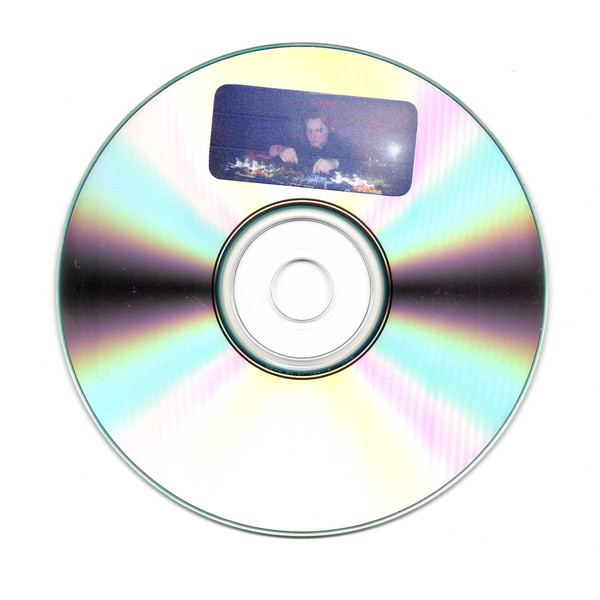
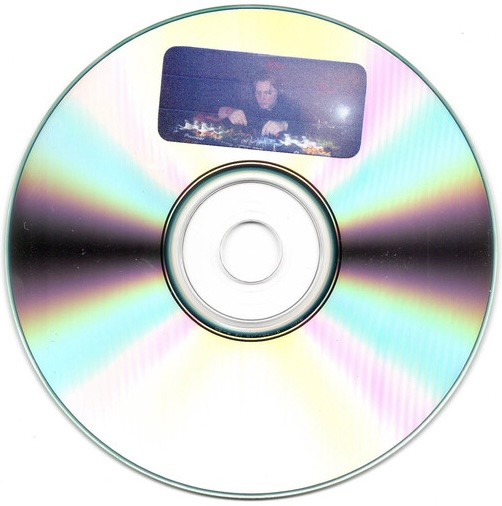
added mixes

diff --git a/index.html b/index.html
@@ -53,7 +53,7 @@
 
         <!-- SL005 -->
         <div class="card">
-          <img src="images/sl005.jpg">
+          <div class="card-img"><img src="images/sl005.jpg"></div>
           <div class="card-text">
             <span class="card-catalog">SL005</span>
             <span class="card-title">the summer ep</span>
@@ -86,7 +86,7 @@
 
         <!-- SL004 -->
         <div class="card">
-          <img src="images/sl004.jpg">
+          <div class="card-img"><img src="images/sl004.jpg"></div>
           <div class="card-text">
             <span class="card-catalog">SL004</span>
             <span class="card-title">Conveyor Belt 2<sup>nd</sup> Product</span>
@@ -117,7 +117,7 @@
 
         <!-- SL003 -->
         <div class="card">
-          <img src="images/sl003.jpg">
+          <div class="card-img"><img src="images/sl003.jpg"></div>
           <div class="card-text">
             <span class="card-catalog">SL003</span>
             <span class="card-title">Oskiano</span>
@@ -147,13 +147,12 @@
 
         <!-- SL002 -->
         <div class="card">
-          <img src="images/sl002.jpg" style="aspect-ratio:1.2">
+          <div class="card-img"><img src="images/sl002.jpg"></div>
           <div class="card-text">
             <span class="card-catalog">SL002</span>
-            <span class="card-title">a.m. blur</span>
+            <span class="card-title">A.M. Blur</span>
             <span class="card-artist">testfield</span>
-            <span class="card-date">Unreleased</span>
-            <span class="card-date">CD Available August 15, 2026</span>
+            <span class="card-date">Released August 15th, 2026</span>
           </div>
 
           <template class="card-modal">
@@ -163,19 +162,25 @@
             </div>
 
             <div class="modal-brief">
-              <p>Upcoming release from testfield.</p>
+              <p>Los Angeles' testfield returns with a new sound after an 8 year hiatus.</p>
+              <br>
+              <p>Plastic outer protective sleeve, printed vellum front art, minimal printed compact disc, soft disc inner protective sleeve, back panel insert, rounded corners on everything </p>
               <br>
               <p>First physical discs will be available as part of the raffle at the <a href="https://instagram.com/11ai.link">SL001 Leapyear Register CD release party</a> at Sun Space in Los Angeles on August 15th.</p>
             </div>
 
             <a class="modal-link" href="https://testfield.bandcamp.com/">testfield Bandcamp &rarr;</a>
+            <div class="modal-bandcamp"
+              data-embed="1712714101"
+              data-embed-type="album"
+              data-linkcol="ff0000"></div>
           </template>
         </div>
         
 
         <!-- SL001 -->
         <div class="card">
-          <img src="images/sl001.jpg" alt="color coordinates cover art">
+          <div class="card-img"><img src="images/sl001.jpg" alt="color coordinates cover art"></div>
           <div class="card-text">
             <span class="card-catalog">SL001</span>
             <span class="card-title">Leapyear Register</span>
@@ -210,7 +215,7 @@
 
         <!-- SL000 -->
         <div class="card">
-          <img src="sl000.jpg">
+          <div class="card-img"><img src="sl000.jpg"></div>
           <div class="card-text">
             <span class="card-catalog">SL000</span>
             <span class="card-title">SECRET DISC</span>
@@ -239,18 +244,42 @@
       </div>
 
       <!-- MIXES -->
-      <!-- <div class="section-divider"></div> -->
+      <div class="section-divider"></div>
+      <h2 class="section-heading">MIXES</h2>
 
-      <div class="releases" style="display:none;">
+      <div class="releases">
+
+        <!-- SLMIX002 -->
+        <div class="card">
+          <div class="card-img"><img src="images/slmix002.jpg"></div>
+          <div class="card-text">
+            <span class="card-catalog">SLMIX002</span>
+            <span class="card-title">Install Wizard (ID Showcase)</span>
+            <span class="card-artist">Cone</span>
+            <!-- <span class="card-date">Coming soon</span> -->
+          </div>
+
+          <template class="card-modal">
+            <div class="modal-imgs">
+              <img src="images/slmix002.jpg">
+            </div>
+
+            <div class="modal-brief">
+              <p>Promotional CD created for the Install Wizard (ID Showcase)</p>
+              <br>
+              <iframe width="100%" height="166" scrolling="no" frameborder="no" allow="autoplay; encrypted-media" src="https://w.soundcloud.com/player/?url=https%3A//api.soundcloud.com/tracks/soundcloud%253Atracks%253A2310587291&color=%23333640&auto_play=false&hide_related=false&show_comments=true&show_user=true&show_reposts=false&show_teaser=true"></iframe><div style="font-size: 10px; color: #cccccc;line-break: anywhere;word-break: normal;overflow: hidden;white-space: nowrap;text-overflow: ellipsis; font-family: Interstate,Lucida Grande,Lucida Sans Unicode,Lucida Sans,Garuda,Verdana,Tahoma,sans-serif;font-weight: 100;"><a href="https://soundcloud.com/cone-dj" title="CONE" target="_blank" style="color: #cccccc; text-decoration: none;">CONE</a> · <a href="https://soundcloud.com/cone-dj/installwizard" title="Install Wizard     (ID Showcase)" target="_blank" style="color: #cccccc; text-decoration: none;">Install Wizard     (ID Showcase)</a></div>
+            </div>
+          </template>
+        </div>
 
         <!-- SLMIX001 -->
         <div class="card">
-          <img src="images/slmix001.jpg">
+          <div class="card-img"><img src="images/slmix001.jpg"></div>
           <div class="card-text">
             <span class="card-catalog">SLMIX001</span>
             <span class="card-title">Fools Day 3</span>
             <span class="card-artist">DRINKS MENU</span>
-            <span class="card-date">Coming soon</span>
+            <!-- <span class="card-date">Coming soon</span> -->
           </div>
 
           <template class="card-modal">
@@ -260,31 +289,23 @@
             </div>
 
             <div class="modal-brief">
-              <p>Fools Day 3 by DRINKS MENU.</p>
+              <p>This is a promotional CD containing a mix by DRINKS MENU from an event which took place on 3/31 and 4/1, 2023.</p>
+              <br>
+              <p>The event was hosted by DEATHBYSHEEP and HELLTEKK</p>
+              <br>
+              <p>The event took place at 1140 Myrtle Ave in Bushwick, New York.</p>
+              <!-- <p>Fools Day 3 by DRINKS MENU.</p> -->
+              <br>
+              <iframe width="100%" height="166" scrolling="no" frameborder="no" allow="autoplay; encrypted-media" src="https://w.soundcloud.com/player/?url=https%3A//api.soundcloud.com/tracks/soundcloud%253Atracks%253A1482854752&color=%239797b4&auto_play=false&hide_related=false&show_comments=true&show_user=true&show_reposts=false&show_teaser=true"></iframe><div style="font-size: 10px; color: #cccccc;line-break: anywhere;word-break: normal;overflow: hidden;white-space: nowrap;text-overflow: ellipsis; font-family: Interstate,Lucida Grande,Lucida Sans Unicode,Lucida Sans,Garuda,Verdana,Tahoma,sans-serif;font-weight: 100;"><a href="https://soundcloud.com/drinksmenu" title="DRINKS MENU" target="_blank" style="color: #cccccc; text-decoration: none;">DRINKS MENU</a> · <a href="https://soundcloud.com/drinksmenu/fools-day-3" title="Fools Day 3" target="_blank" style="color: #cccccc; text-decoration: none;">Fools Day 3</a></div>
             </div>
           </template>
         </div>
 
-        <!-- SLMIX002 -->
-        <div class="card">
-          <img src="images/slmix002.jpg">
-          <div class="card-text">
-            <span class="card-catalog">SLMIX002</span>
-            <span class="card-title">Wizard</span>
-            <span class="card-artist">Cone</span>
-            <span class="card-date">Coming soon</span>
-          </div>
-
-          <template class="card-modal">
-            <div class="modal-imgs">
-              <img src="images/slmix002.jpg">
-            </div>
-
-            <div class="modal-brief">
-              <p>Wizard by Cone.</p>
-            </div>
-          </template>
-        </div>
+        <!-- dummy cards for grid alignment -->
+        <div class="card card-dummy"></div>
+        <div class="card card-dummy"></div>
+        <div class="card card-dummy"></div>
+        <!-- <div class="card card-dummy"></div> -->
 
       </div>
 

diff --git a/style.css b/style.css
@@ -209,18 +209,48 @@ img {
 .section-divider {
   border-top: 1px solid #ddd;
   max-width: 1600px;
+  margin: 30px auto 10px;
+}
+
+.section-heading {
+  max-width: 1600px;
   margin: 0 auto 30px;
+  font-size: 13px;
+  font-weight: 400;
+  letter-spacing: 2px;
+  color: #888;
+  text-transform: uppercase;
 }
 
 .card {
   display: block;
+  width: 100%;
+}
+
+.card-dummy {
+  visibility: hidden;
+  pointer-events: none;
+}
+
+.card-dummy::after {
+  content: '';
+  display: block;
+  aspect-ratio: 1.15 / 1;
+  width: 100%;
+}
+
+.card-img {
+  aspect-ratio: 1.15 / 1;
+  overflow: hidden;
+  display: flex;
+  align-items: center;
+  justify-content: center;
 }
 
 .card img {
-  aspect-ratio: 1.;
+  width: 100%;
+  height: 100%;
   object-fit: contain;
-  /* object-position: left; */
-  
 }
 
 .card-text {
